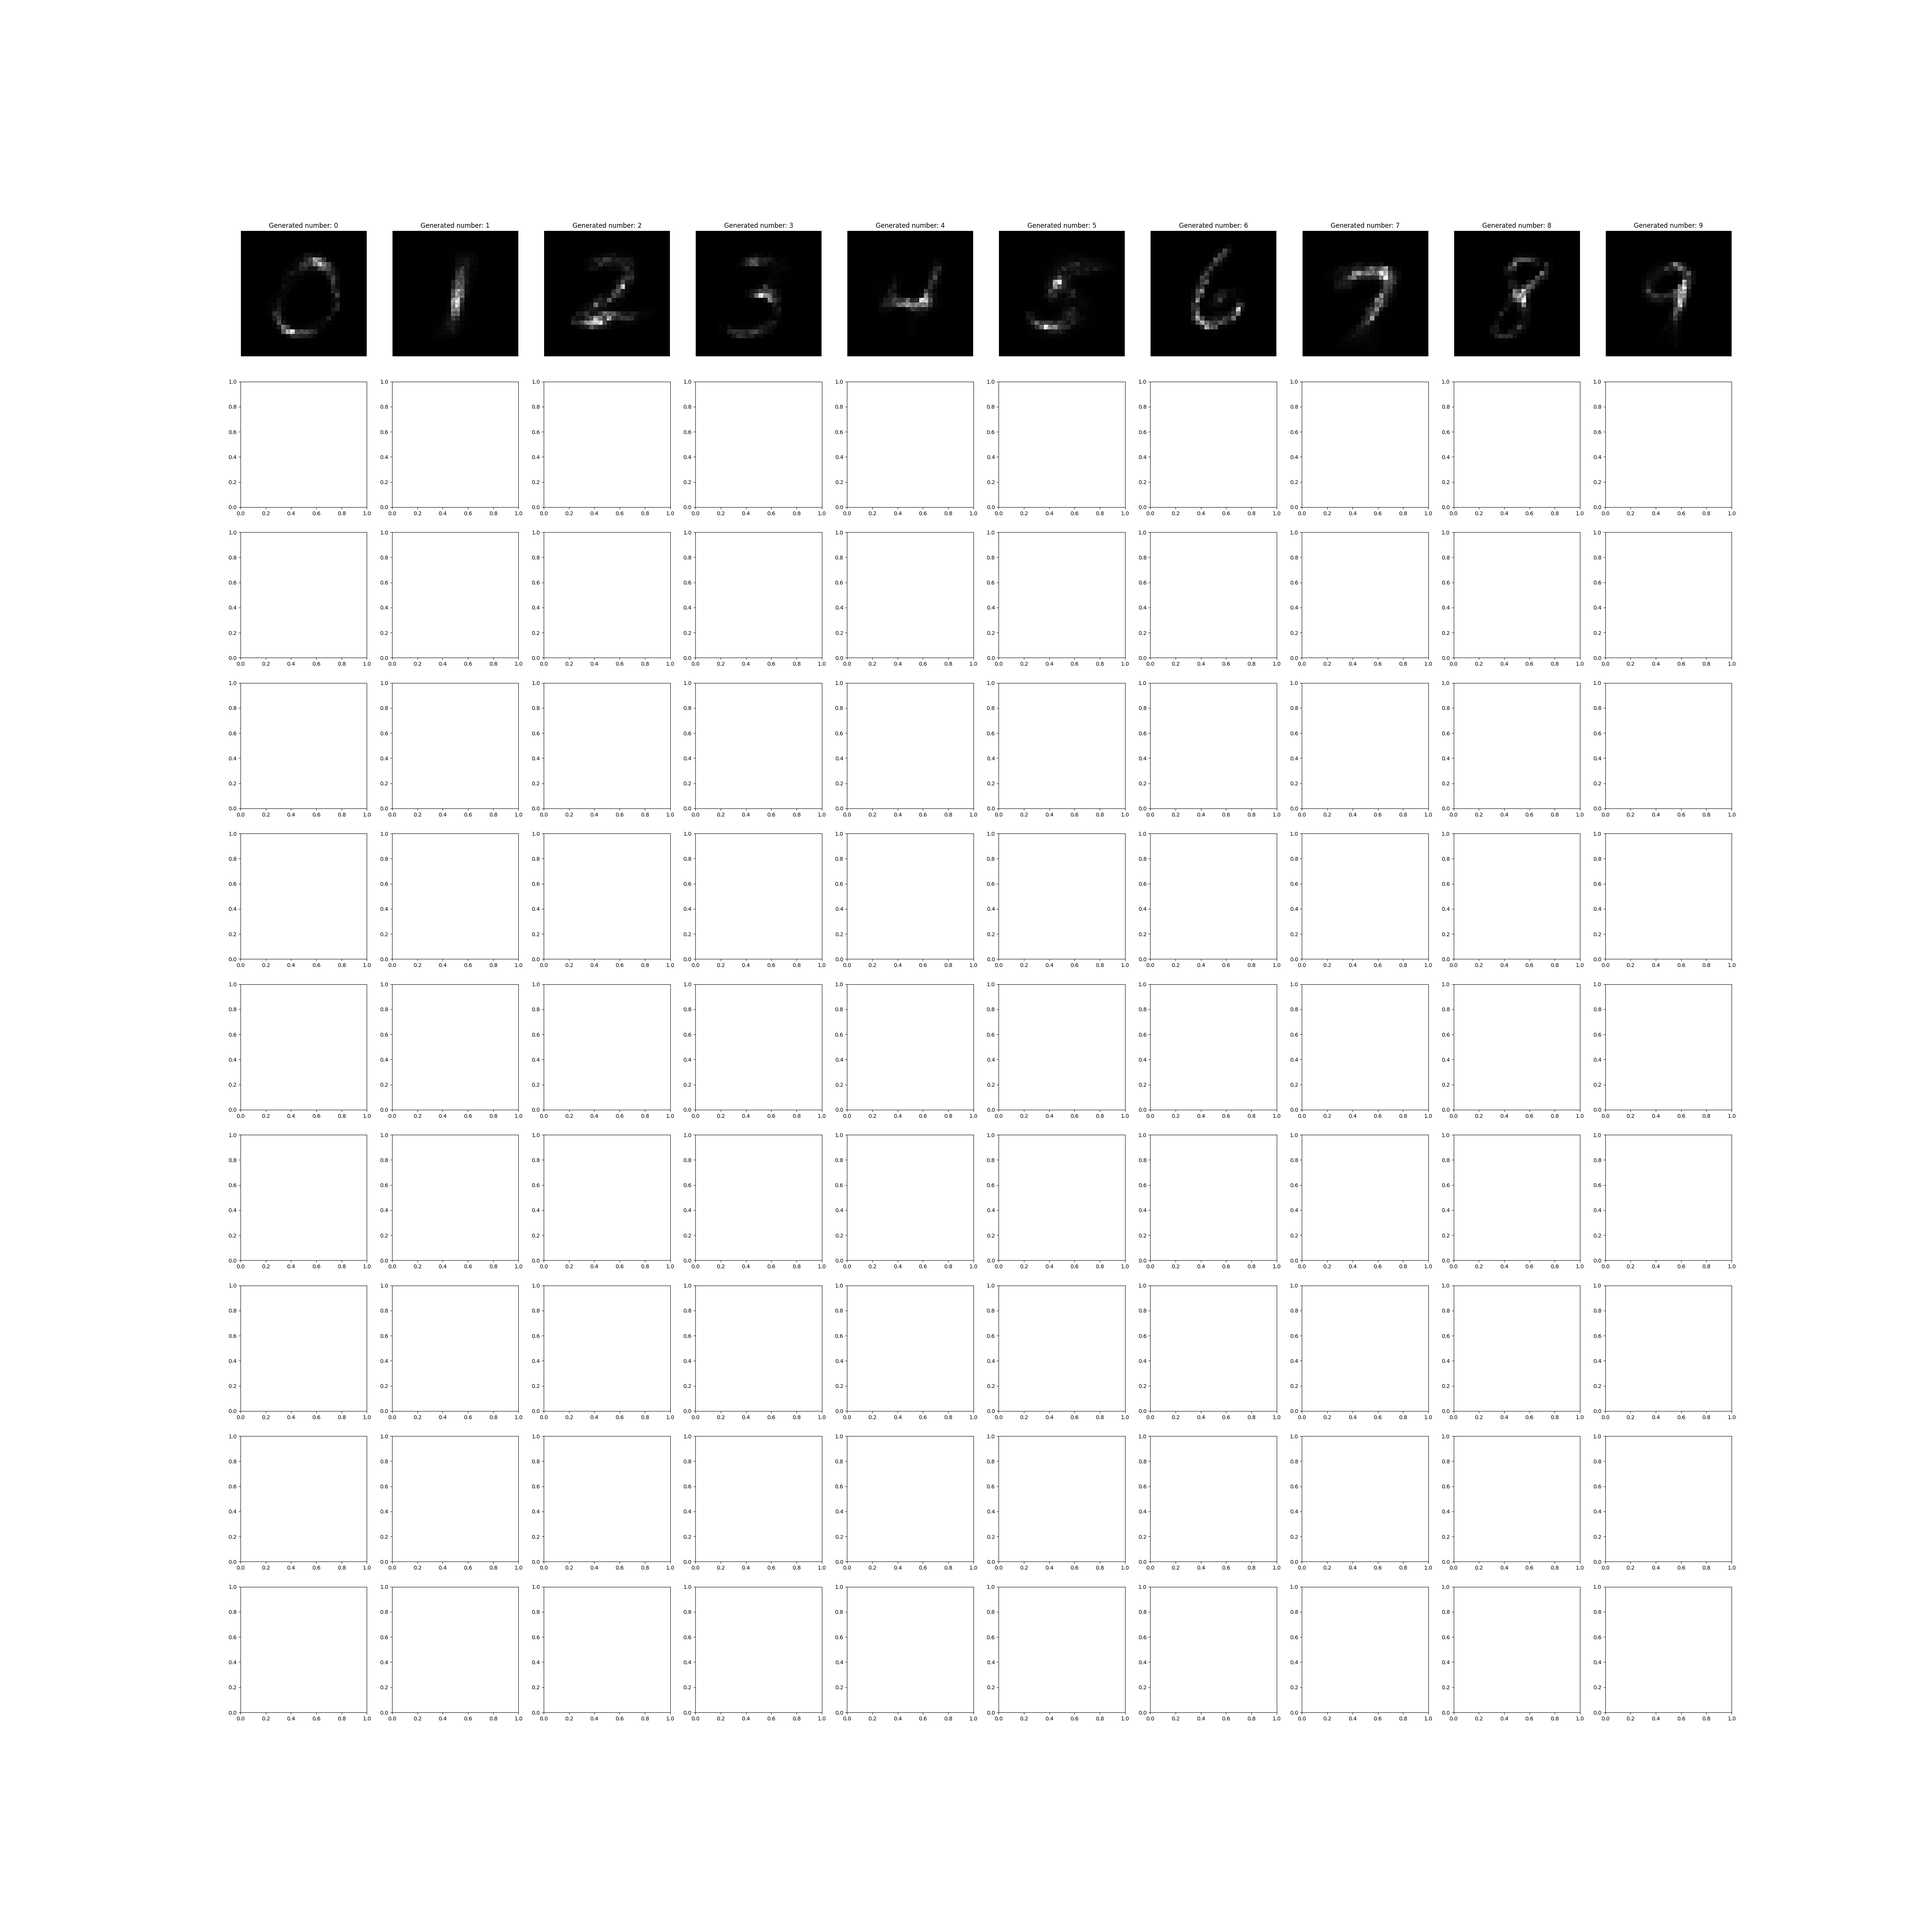
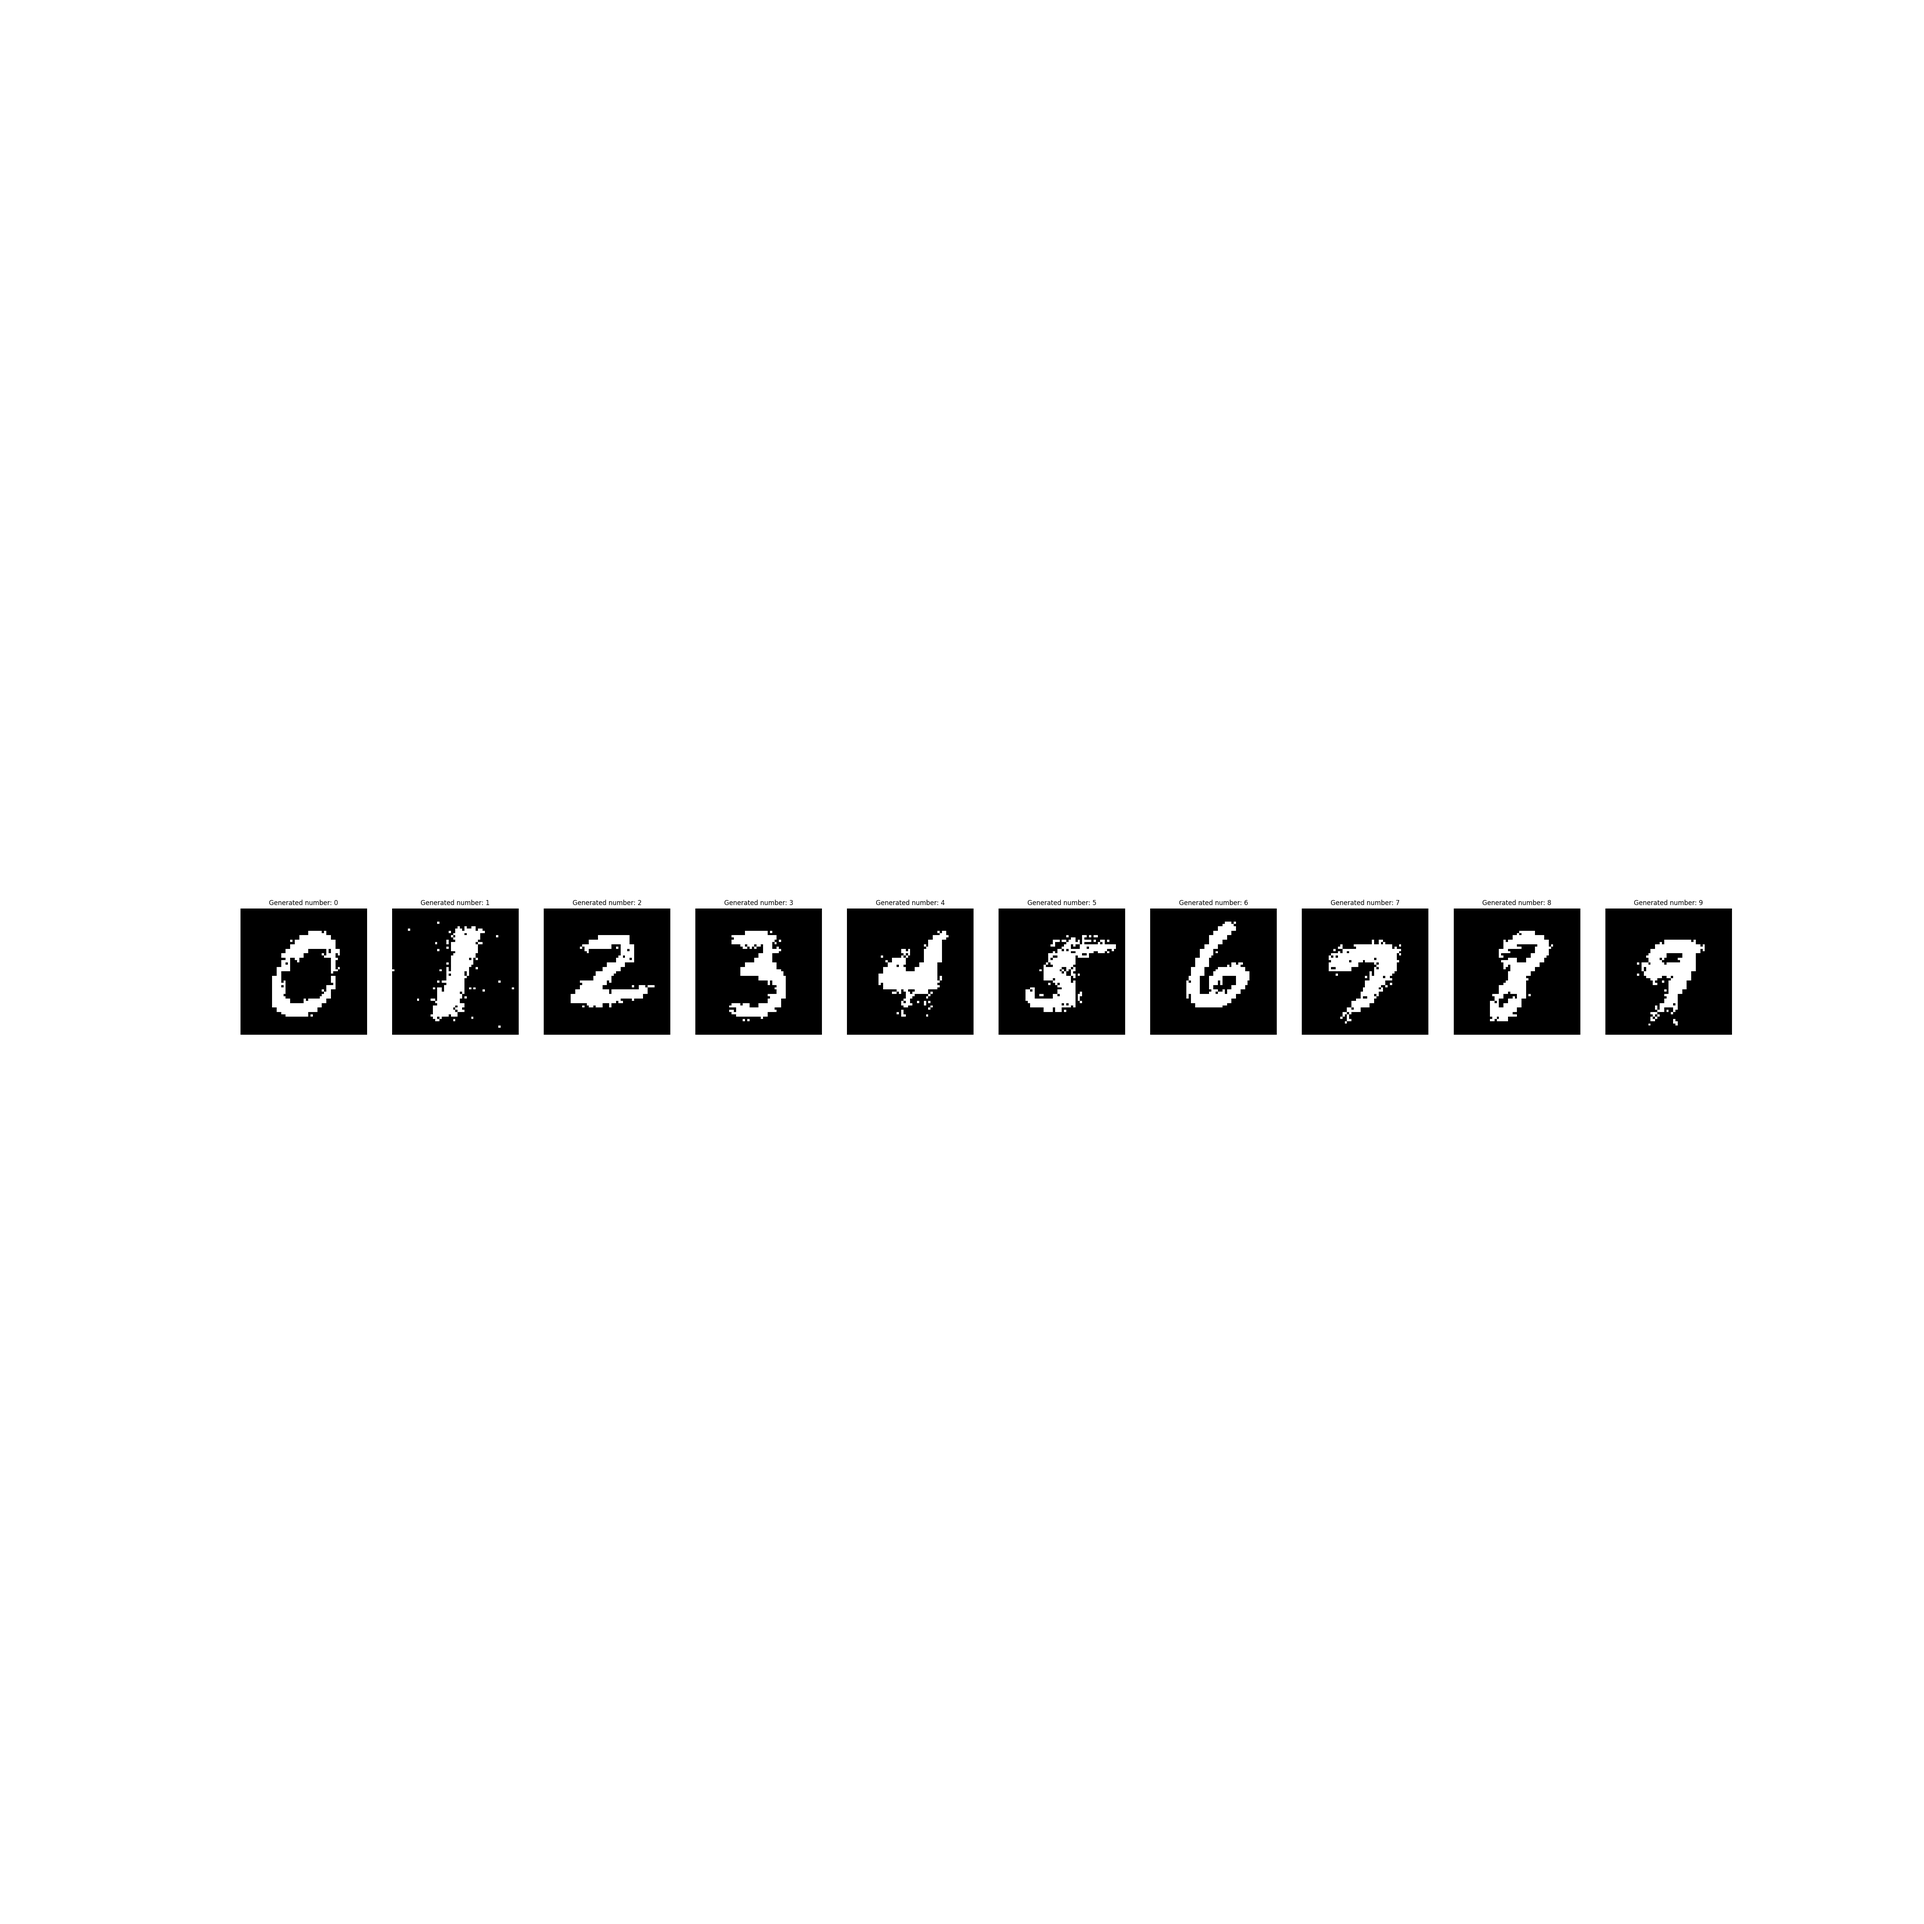
generation wont get much better from here

Changed region(s): [[0.1248, 0.468, 0.9048, 0.5616], [0.1248, 0.0936, 0.9048, 0.1872]]

diff --git a/plots.py b/plots.py
@@ -86,9 +86,9 @@ def assemblies_and_weights(cap_size=200, beta=1):
     # fig.savefig('plots/weights.png')
 
 def generate():
-    brain = Brain(no_classes=10, cap_size=200, n=5625, in_n=784*4, beta=1)
+    brain = Brain(no_classes=10, cap_size=1000, n=10000, in_n=784*4, beta=1)
     (X_train, y_train),(_,_) = keras.datasets.mnist.load_data()
-    data, labels, no_of_rounds = get_data(300, X_train, y_train)
+    data, labels, no_of_rounds = get_data(200, X_train, y_train)
     
     _ = brain.section_training(data, no_rounds=no_of_rounds)
     
@@ -99,9 +99,9 @@ def generate():
 
     for i in range(10):
         img = brain.generate_image(label=i)
-        axes[1, i].imshow(img, cmap='gray')
-        axes[1, i].title.set_text(f'Generated number: {i}')
-        axes[1, i].axis('off')
+        axes[i].imshow(img, cmap='gray')
+        axes[i].title.set_text(f'Generated number: {i}')
+        axes[i].axis('off')
     
     fig.savefig("plots/generate.png")
 
@@ -225,14 +225,14 @@ if __name__ == '__main__':
     #     no_test_data=300,
     # )
 
-    best_neuron_count = benchmark_param(
-        brain_callback=lambda i: Brain(p=0.1, no_classes=10, cap_size=25*i + 150, n=1000 * i + 1000, in_n=784*4, beta=1),
-        item_callback=lambda i: 1000 * i + 1000,
-        name="number_of_neurons",
-        no_data_items=300,
-        no_test_data=300,
-        no_iterations=15
-    )
+    # best_neuron_count = benchmark_param(
+    #     brain_callback=lambda i: Brain(p=0.1, no_classes=10, cap_size=25*i + 150, n=1000 * i + 1000, in_n=784*4, beta=1),
+    #     item_callback=lambda i: 1000 * i + 1000,
+    #     name="number_of_neurons",
+    #     no_data_items=300,
+    #     no_test_data=300,
+    #     no_iterations=15
+    # )
     
     # overlap_plots(
     #     Brain(p=0.1, no_classes=10, cap_size=80, n=200, in_n=784, beta=0.1),
@@ -240,7 +240,7 @@ if __name__ == '__main__':
     # )
 
     # assemblies_and_weights()
-    # generate()
+    generate()
     
     partial_time = time.time() - start
     print(f"Time taken: {partial_time}")

diff --git a/brain.py b/brain.py
@@ -151,9 +151,15 @@ class Brain():
         return correct / len(X_test)
     
     def generate_image(self, label):
-        assembly = np.array(self.y[label])
-        estimated_input = assembly @ self.weights.T
-        estimated_input = estimated_input.reshape((56, 56))
+        neuron_pr_class = self.n / self.no_classes
+        activations = np.random.choice([0., 1.], self.n, p = [1 - 0.2,  0.2])
+        
+        activations[:int(neuron_pr_class * label)] = 0
+        activations[int(neuron_pr_class * (label+1)):] = 0
+        
+        test = activations @ self.weights.T
+        test = self._k_cap(test, 450)
+        estimated_input = test.reshape((56, 56))
         return estimated_input
     
     
